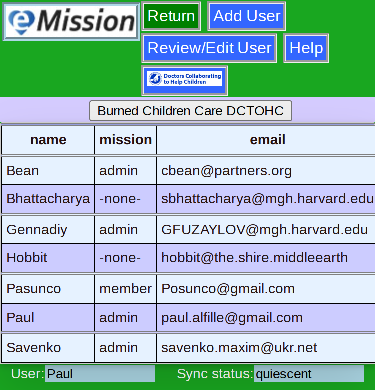
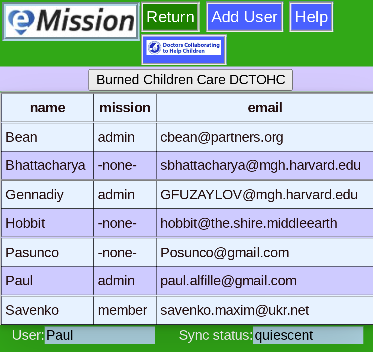
More help -- administrative

diff --git a/src/UserEdit.md b/src/UserEdit.md
@@ -1,0 +1,17 @@
+# Edit a User
+
+Once created, you can edit a user's record, with some limitations.
+
+![](images/UserEdit.png)
+
+* The user name cannot be changed (but you can create a new user if you wish)
+* The Password can be changed, but not retrieved. 
+  * If forgotten it must be created anew
+  * Leaving the password blank should not reset it
+* Status applies to the currently listed mission
+
+Press **Edit** to modify the record:
+
+![](images/UserEdit2.png)
+
+Press **SaveChanges** to proceed (or **Cancel** to back out)

diff --git a/src/SUMMARY.md b/src/SUMMARY.md
@@ -29,7 +29,9 @@
 - [Administration](Administration.md)
   - [Super User (Top level access)](SuperUser.md)
   - [Database Console](Fauxton.md)
-  - [User List](UserList.md)
+  - [List Users for Editing](UserList.md)
+  - [List Users for Membership](MissionMembers.md)
+  - [Edit a User](UserEdit.md)
 # Administrator
 # Manager
 # Technical Aspects

diff --git a/src/MissionMembers.md b/src/MissionMembers.md
@@ -1,0 +1,13 @@
+# List Users for Membership
+
+A direct way to assign users to your mission
+
+![](images/MissionMembers.png)
+
+This is a list of members, and their current role on your mission.
+
+![](images/MissionMembers2.png)
+
+Simply check or uncheck membership.
+
+There is also a link to **Add User**

diff --git a/src/UserList.md b/src/UserList.md
@@ -6,6 +6,7 @@ For SuperUser only:
 
 * This shows a list of existing users across all missions
 * **AddUser** at top allows adding a new user (obviously)
+* Click on a user's row to edit that user's data
 * The User's membership in the current mission is shown:
 
 ![](images/UserList2.png)
